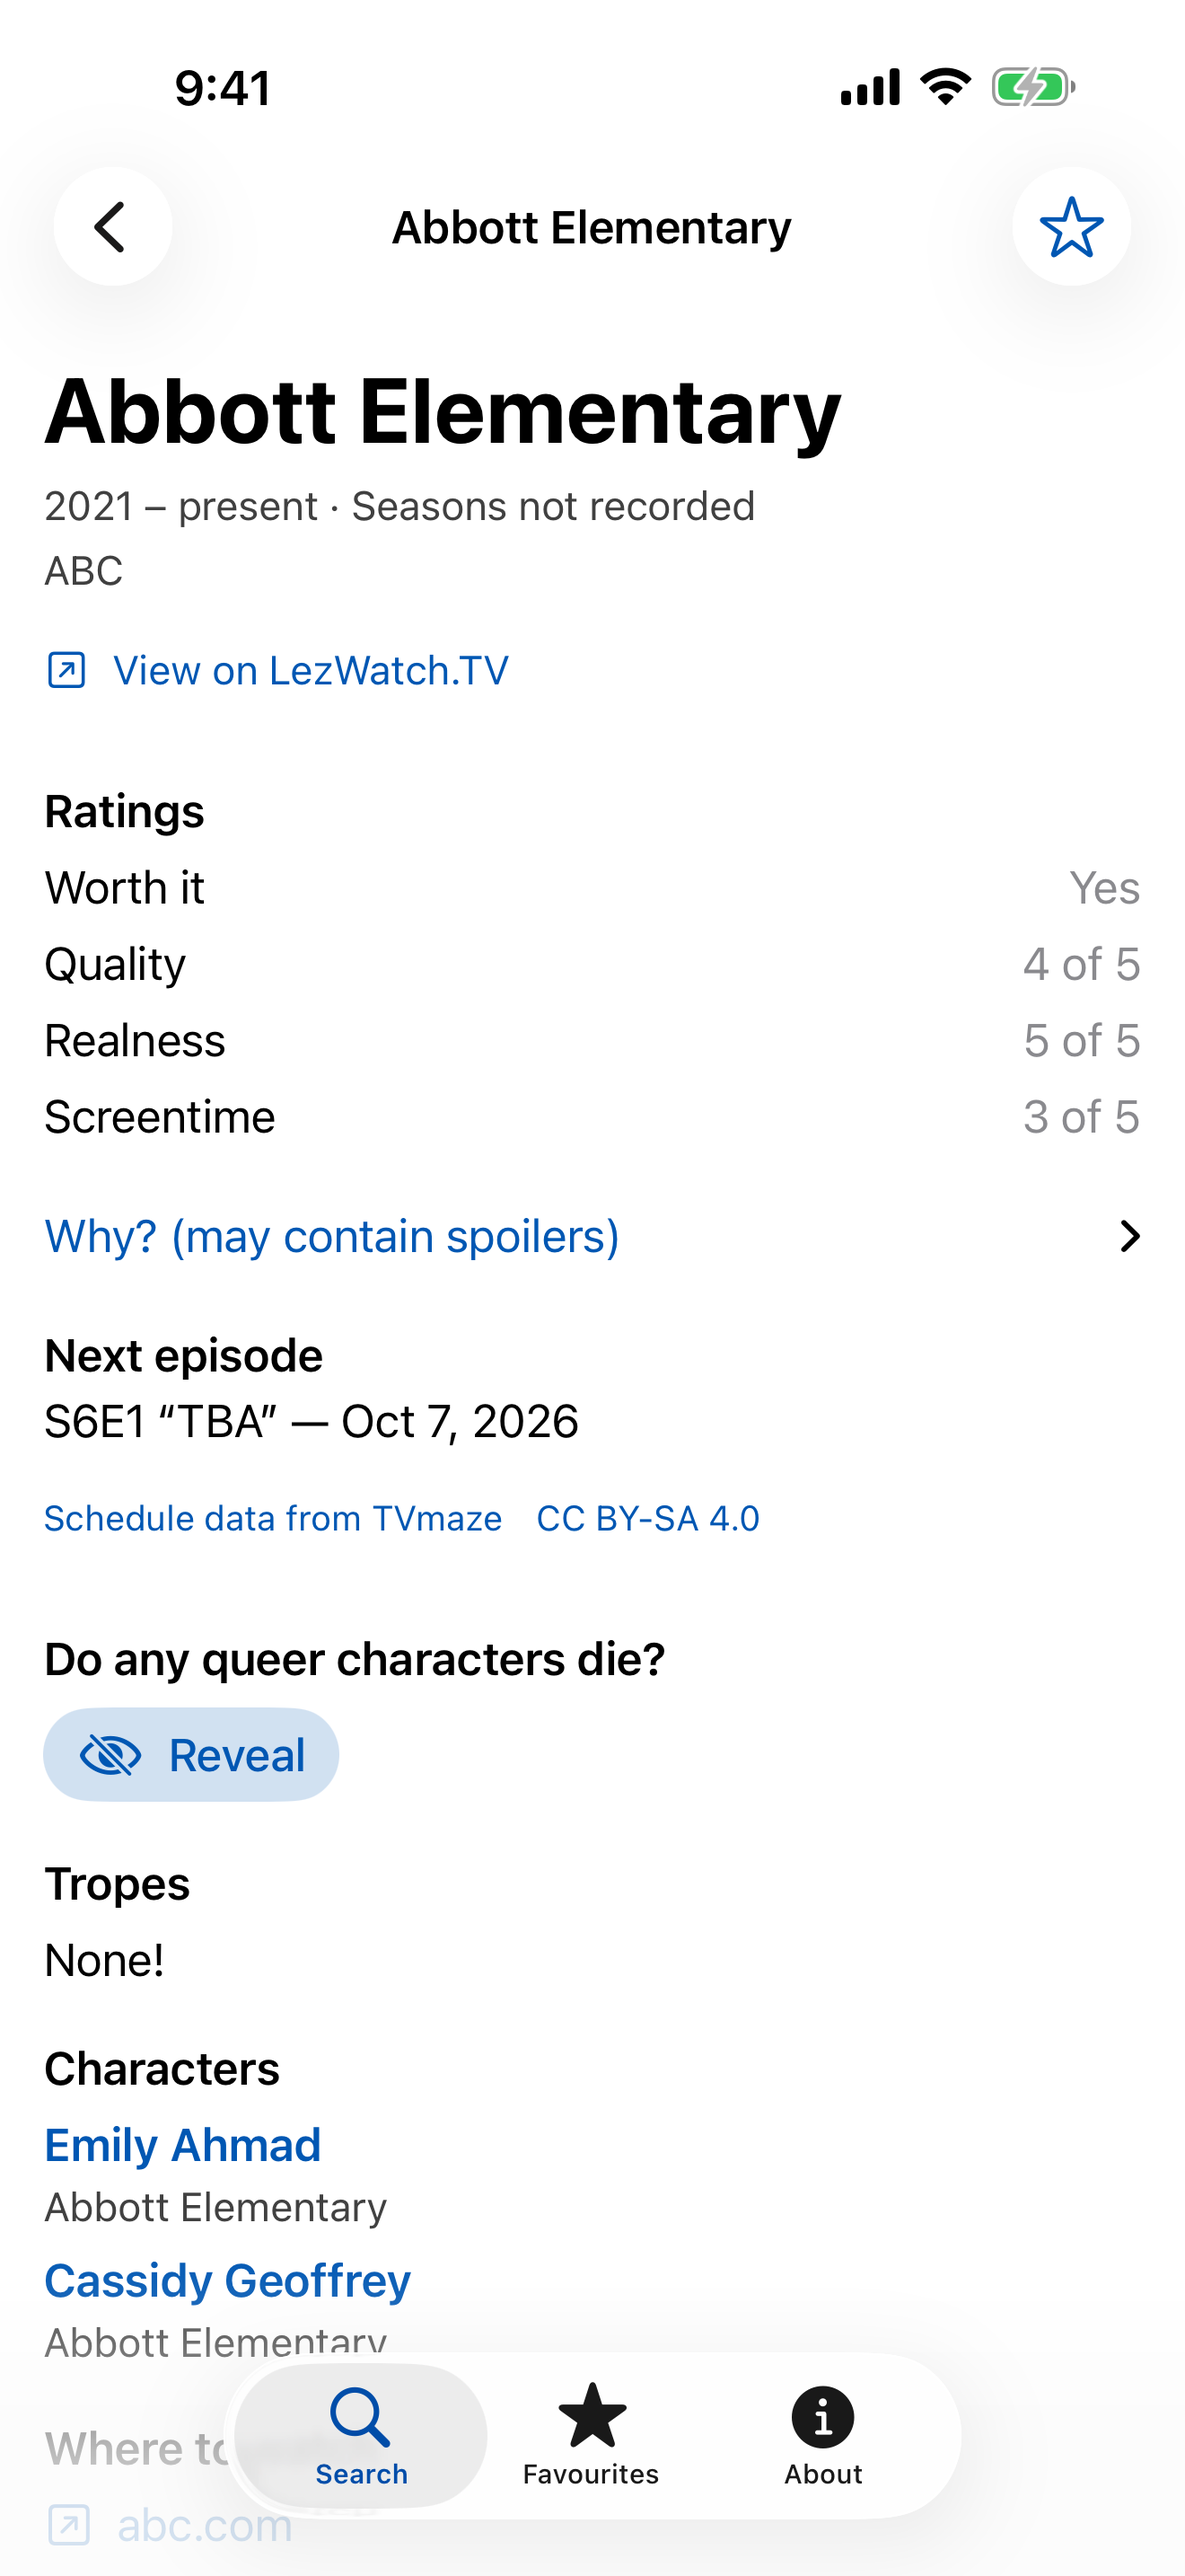
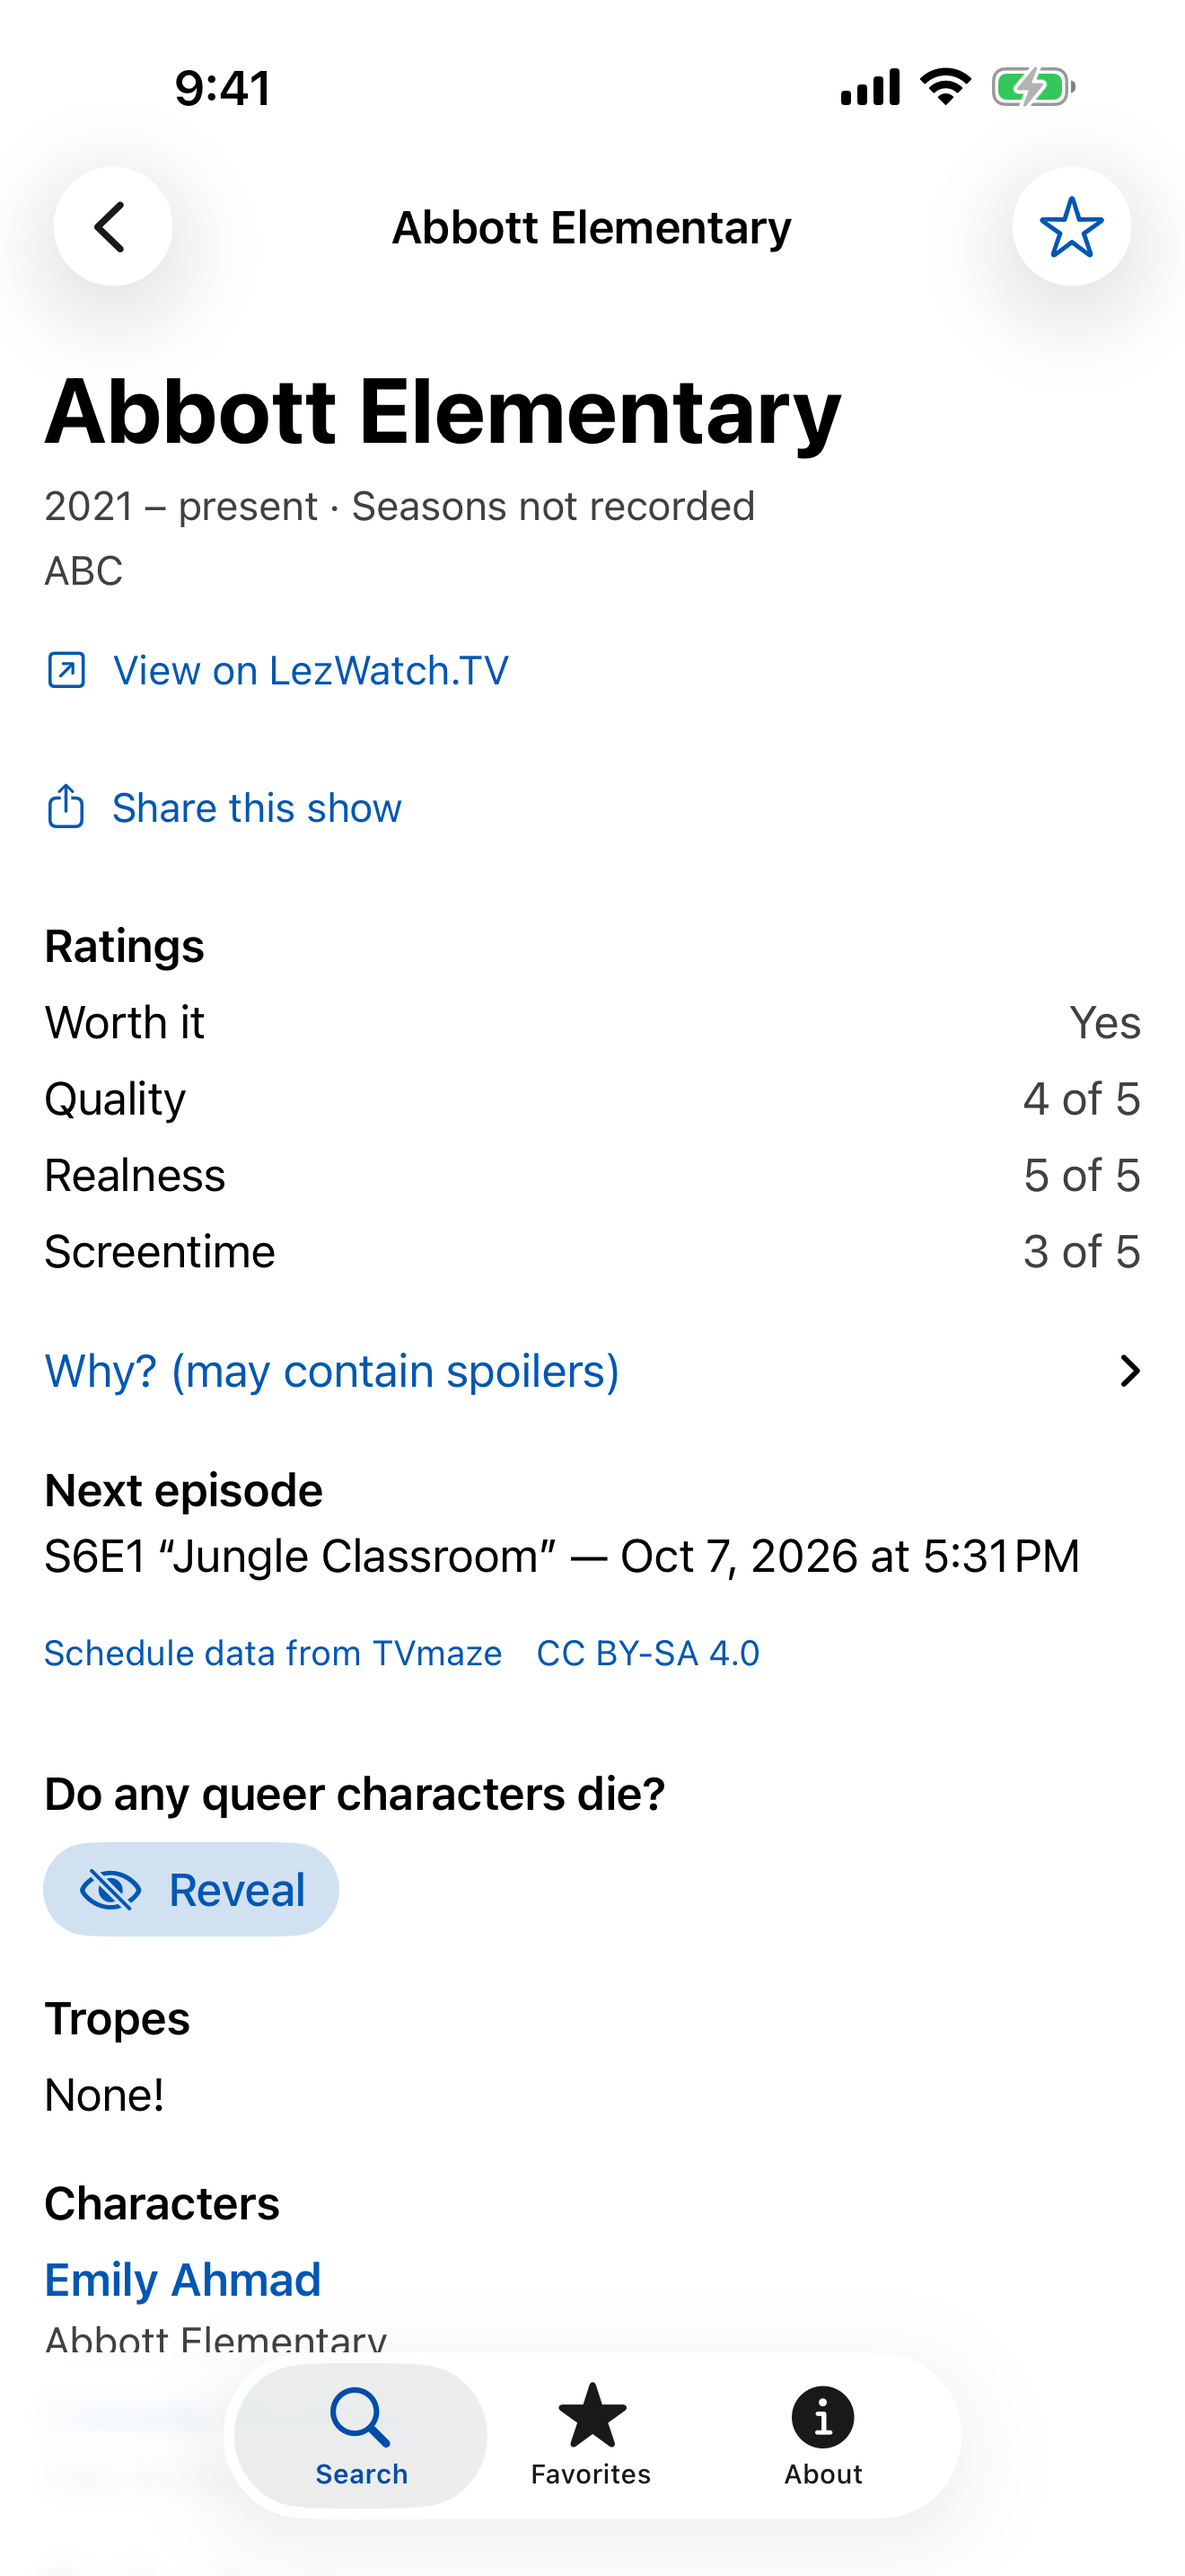
release: prepare Queer Frame 1.0.0 for the App Store
Regenerate the five 6.9" screenshots from the published snapshot
(generated 2026-10-02T09:45:14Z, refreshed with make -C ios
bundle-snapshot), with every reveal closed. Date the CHANGELOG's 1.0.0
section 2026-10-02, write its release notes, and move everything under
Unreleased into it, since all of it ships in the first release.

Record the 2026-10-02 trademark screen under DECISIONS 0006, mark
OWNER-STEPS step 1 done with the same summary, and mark the trademark
and screenshot rows done in the listing's status table.

diff --git a/CHANGELOG.md b/CHANGELOG.md
@@ -11,6 +11,29 @@ consumer of the published snapshot, would notice.
 
 ## [Unreleased]
 
+## [1.0.0] - 2026-10-02
+
+The first App Store release of Queer Frame for iPhone: version 1.0.0,
+build 1, USD 4.99 up front in the United States, with no in-app purchase
+and no subscription.
+
+Queer Frame is a guide to TV shows with queer characters, built on
+LezWatch.TV's records and TVmaze's episode schedules and crediting both.
+Search and filter shows by where to watch, tropes and trigger warnings;
+open a show or a character to see the details, the next episode and a
+link to the LezWatch.TV page. Whether a character dies, and whether any
+queer characters die in a show, stays closed until you tap to reveal it,
+and tropes that give a death away are kept behind the reveal too.
+Favorites stay on your iPhone and can be backed up to a file without an
+account. Optional new-episode reminders and an "Up Next" home-screen
+widget are made on the device. The app works offline from the data it
+ships with, says how old its data is, and checks for newer data with one
+request. It collects no data: no analytics, no tracking, no accounts.
+LezWatch.TV and TVmaze do not endorse the app.
+
+The detailed list below covers the app and the nightly pipeline that
+publishes its data.
+
 ### Added
 
 - A nightly pipeline mirrors LezWatch.TV (shows, characters, deaths, tropes,
@@ -155,11 +178,3 @@ consumer of the published snapshot, would notice.
   who moved on after the first word heard "No". Section headings on About,
   and text scrolling toward the tab bar, now meet 4.5:1 contrast, and the
   About rows scale with Dynamic Type (#22, #28).
-
-## [1.0.0] - TBD
-
-The first App Store release (DECISIONS 0015). Before tagging, replace `TBD`
-with the release date (`YYYY-MM-DD`), replace this paragraph with the
-release notes, and move what ships from `[Unreleased]` into this section
-(docs/app-store/OWNER-STEPS.md, step 9). The release workflow refuses this
-section while it says TBD.

diff --git a/docs/app-store/OWNER-STEPS.md b/docs/app-store/OWNER-STEPS.md
@@ -44,15 +44,20 @@ Decided 2026-10-02 and recorded in DECISIONS 0015:
 - **Price: USD 4.99, paid up front**, no in-app purchase (confirmed).
 - **Support contact: kept** on the support page (step 5).
 
+Done 2026-10-02:
+
+- **Trademark screen for "Queer Frame": done, no conflict found**
+  (recorded under DECISIONS 0006). The official USPTO trademark search
+  (`https://tmsearch.uspto.gov/`, a word search typed into the search box),
+  the US App Store search API, and the Justia, uspto.report and Trademarkia
+  mirrors found no "QUEER FRAME" mark and no app by that name. The nearest
+  marks were QUEER EYE (live, classes 41 and 25, Scout Productions) and the
+  dead QUEER TV and QUEER TELEVISION. This is a screen, not legal advice;
+  an attorney's clearance search is the standard next step for certainty.
+
 Still yours:
 
-1. **Trademark screen for "Queer Frame".** None has been run. USPTO
-   Trademark Search (`https://tmsearch.uspto.gov/`) for `QUEER FRAME`,
-   `QUEERFRAME` and sound-alikes, live and dead, in classes 9, 41 and 42;
-   then the App Store and the web for "queer frame". Record the result and
-   the date under DECISIONS 0006. A conflict means renaming before
-   submitting. This is a screen, not legal advice.
-2. **Optional description line** for the widget and reminders
+1. **Optional description line** for the widget and reminders
    (`APP-STORE-LISTING.md`, "Not in the description today").
 
 ## 2. Merge what the build depends on

diff --git a/docs/APP-STORE-LISTING.md b/docs/APP-STORE-LISTING.md
@@ -180,7 +180,7 @@ Paid up front on the App Store. There is no in-app purchase and nothing to unloc
 | Item | Blocks | Status |
 |---|---|---|
 | Support contact on `support.html` | Support URL (guideline 1.5) | Added on this branch (`chelsea@chelseakr.com`); live after the next nightly run. OWNER-STEPS step 5. |
-| Screenshots | Version page | Regenerate before upload: the five in `app-store/screenshots/` date from 2026-09-18 and predate the opaque status strip and filter bar (#48) and the first-run page changes (#77). OWNER-STEPS step 9. |
-| Trademark screen for "Queer Frame" | Name | Not run. OWNER-STEPS step 1. |
+| Screenshots | Version page | **Done.** Regenerated 2026-10-02 from the snapshot generated 2026-10-02T09:45:14Z, every reveal closed. Regenerate again if a change to a screen merges before the upload. OWNER-STEPS step 9. |
+| Trademark screen for "Queer Frame" | Name | **Done.** 2026-10-02, no conflict found (DECISIONS 0006). OWNER-STEPS step 1. |
 | Age rating answers | App Information | **Done.** Confirmed 2026-10-02 (DECISIONS 0015). |
 | Storefronts | Pricing and Availability | **Done.** United States only (DECISIONS 0015). |

diff --git a/docs/DECISIONS.md b/docs/DECISIONS.md
@@ -52,6 +52,15 @@ snapshot URL keep their working names. None of them is shown to a user,
 and a bundle identifier cannot change once an app is registered. Resolves
 0004. Never "Signal".
 
+**Trademark screen (2026-10-02): no conflict found.** The official USPTO
+trademark search (`https://tmsearch.uspto.gov/`, a word search typed into
+the search box), the US App Store search API, and the Justia, uspto.report
+and Trademarkia mirrors found no "QUEER FRAME" mark and no app by that
+name. The nearest marks were QUEER EYE (live, classes 41 and 25, Scout
+Productions) and the dead QUEER TV and QUEER TELEVISION. This is a screen,
+not legal advice; an attorney's clearance search is the standard next step
+for certainty.
+
 ## 0007 — The snapshot stays on GitHub Pages (2026-09-17)
 
 **Decision.** `https://chelseakr.github.io/queer-tv-guide/snapshot.v1.json`
@@ -169,3 +178,4 @@ snapshot, the attribution, and the App Review note in `docs/APP-STORE.md`.
   (resolves the "still owed" line in 0010).
 
 **Still open:** a trademark screen for "Queer Frame" (the owner's).
+Update 2026-10-02: done, no conflict found (0006).
